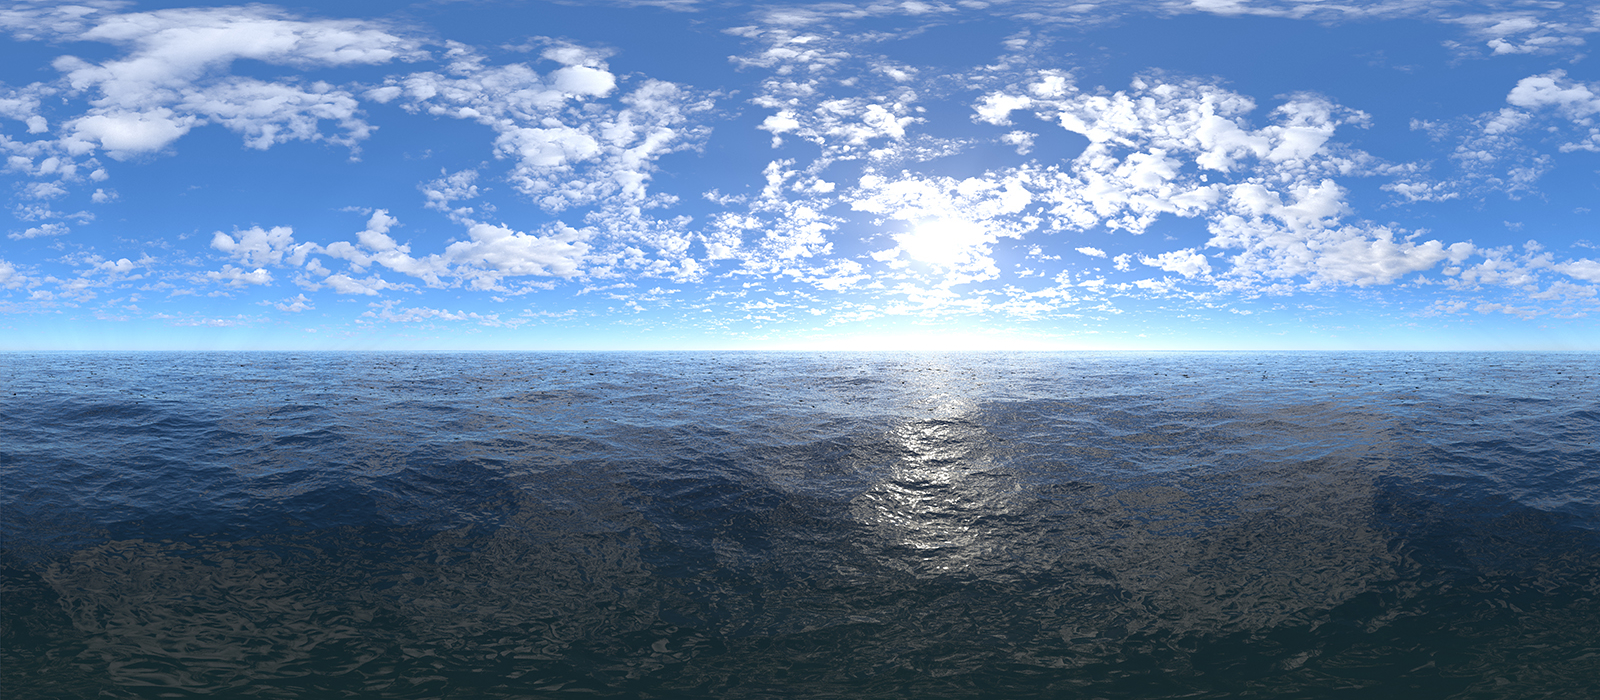
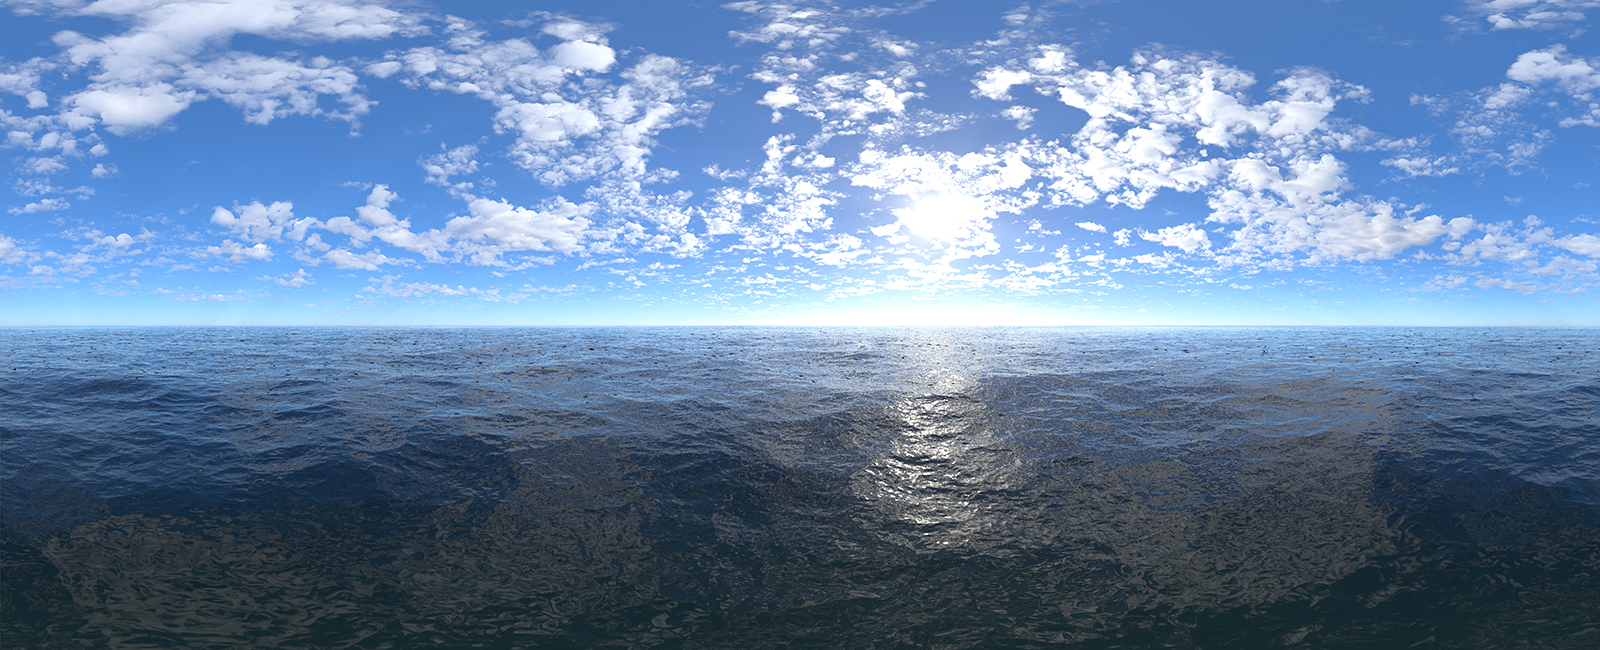
Fix and reenable floor casting.

diff --git a/js/main.js b/js/main.js
@@ -47,6 +47,7 @@ function Ray(x, y, dirX, dirY) {
     this.stepX = 0; // ray step direction
     this.stepY = 0;
     this.hit = 0; // type of wall ray hit
+    this.backward = false;
     this.done = false;
     this.side = 0; // side of the wall ray hit
     this.sector = 0; // sector of wall ray hit
@@ -94,8 +95,6 @@ let imageData = context.createImageData(canvas.width, canvas.height);
 
 // Drawing funcs
 function drawScene() {
-    prepareFrame();
-
     drawSkybox();
     drawFastFloor();
 
@@ -118,9 +117,9 @@ function prepareFrame() {
     pipeline = [];
 
     // Prepare all floor rays
-    // for (let onScreenY = horizon; onScreenY <= canvas.height; onScreenY++) {
-    //     calculateFloorScanLine(onScreenY);
-    // }
+    for (let onScreenY = horizon; onScreenY <= canvas.height; onScreenY++) {
+        calculateFloorScanLine(onScreenY);
+    }
 
     // Prepare all wall rays
     for (let onScreenX = 0; onScreenX <= canvas.width; onScreenX++) {
@@ -166,12 +165,12 @@ function calculateFloorScanLine(onScreenY) {
     calculateRayDirection(ray0);
     calculateRayDirection(ray1);
 
-    let p = onScreenY - horizon;
-    let posZ = 0.35 * canvas.height;
+    let p = onScreenY - horizon + 1;
+    let posZ = Math.floor(0.325 * canvas.height / screenRatio);
     let rowDistance = posZ / p;
 
-    let floorStepX = rowDistance * (ray1.dirX - ray0.dirX) / canvas.width;
-    let floorStepY = rowDistance * (ray1.dirY - ray0.dirY) / canvas.width;
+    let floorStepX = rowDistance * (ray1.dirX - ray0.dirX) / (canvas.width);
+    let floorStepY = rowDistance * (ray1.dirY - ray0.dirY) / (canvas.width);
 
     let floorX = thisPlayer.x + rowDistance * ray0.dirX;
     let floorY = thisPlayer.y + rowDistance * ray0.dirY;
@@ -181,16 +180,19 @@ function calculateFloorScanLine(onScreenY) {
         let cellY = Math.floor(floorY);
 
         if (cellY >= 0 && cellX >= 0 && cellY < world.length && cellX < world[cellY].length && transparentBlocks.includes(world[cellY][cellX])) {
-            let texture = getWallTexture(0);
+            let texture = getWallTexture(4);
 
-            let tx = Math.floor(texture.width * (floorX - cellX)) & (texture.width - 1);
-            let ty = Math.floor(texture.height * (floorY - cellY)) & (texture.height - 1);
+            if (texture !== undefined && texture.width !== undefined) {
+                let textureX = Math.floor(texture.width * (floorX - cellX)) & (texture.width - 1);
+                let textureY = Math.floor(texture.height * (floorY - cellY)) & (texture.height - 1);
 
-            let i = Math.floor(canvas.width * onScreenY + onScreenX) * 4;
-            floorData.data[i] = ((Math.floor(onScreenY) % 2) && (Math.floor(onScreenX) % 2)) ? 105 : 200;
-            // floorData.data[i + 1] = 255;
-            // floorData.data[i + 2] = 255;
-            // floorData.data[i + 3] = 255;
+                let canvasIndex = Math.floor((canvas.width + 1) * onScreenY + onScreenX) * 4;
+                let textureIndex = Math.floor(texture.width * textureY + textureX) * 4;
+
+                imageData.data[canvasIndex] = texture.data[textureIndex];
+                imageData.data[canvasIndex + 1] = texture.data[textureIndex + 1];
+                imageData.data[canvasIndex + 2] = texture.data[textureIndex + 2];
+            }
         }
         
         floorX += floorStepX;
@@ -323,10 +325,10 @@ function performBackwardsRaycast(refRay, x, onScreenX) {
     ray.dirY *= -1;
 
     if (ray.offX < ray.offY) {
-        ray.x -= ray.stepX * 0.0001;
+        ray.x -= ray.stepX * 0.00001;
         ray.side = 0;
     } else {
-        ray.y -= ray.stepY * 0.0001;
+        ray.y -= ray.stepY * 0.00001;
         ray.side = 1;
     }
 
@@ -335,12 +337,10 @@ function performBackwardsRaycast(refRay, x, onScreenX) {
     // Check if ray is in world bounds
     if (ray.y < 0 || ray.y > world.length - 1) return;
     if (ray.x < 0 || ray.x > world[Math.round(ray.y)].length - 1) return;
-    
-    ray.dirX *= -1;
-    ray.dirY *= -1;
 
     // Check if ray has hit a wall
     if (world[Math.round(ray.y)][Math.round(ray.x)] == ray.hit) {
+        ray.backward = true;
         rayHit(ray, x, onScreenX);
     }
 }
@@ -354,6 +354,12 @@ function rayHit(ray, x, onScreenX) {
     let modifierX = 0, modifierY = 0;
     if (ray.dirX < 0) modifierX = 1;
     if (ray.dirY < 0) modifierY = 1;
+
+    // Reverse ray direction if backwards cast (fixes portal transitions)
+    if (ray.backward) {
+        ray.dirX *= -1;
+        ray.dirY *= -1;
+    }
 
     if (jumps === 0) {
         if (ray.side === 0) perpWallDist = (ray.x - thisPlayer.x + (1 - ray.stepX) / 2) / ray.dirX;
@@ -373,7 +379,7 @@ function rayHit(ray, x, onScreenX) {
     }
 
     // Calculate height of line to draw on screen
-    let lineHeight = canvas.height / perpWallDist / screenRatio / 2.5 / correction;
+    let lineHeight = canvas.height / perpWallDist / screenRatio / 2.25 / correction;
 
     // Calculate value of wallX
     if (ray.side === 0) ray.sector = thisPlayer.y + perpWallDist * ray.dirY;
@@ -399,11 +405,13 @@ function rayHit(ray, x, onScreenX) {
 }
 
 function drawFrame() {
+    imageData = context.getImageData(0, 0, canvas.width + 1, canvas.height);
+
+    prepareFrame();
+
     pipeline.sort(function (a, b) {
         return b.distance - a.distance;
     });
-
-    imageData = context.getImageData(0, 0, canvas.width + 1, canvas.height);
 
     for (let i = 0; i < pipeline.length; i++) {
         let temp = pipeline[i];
@@ -437,10 +445,10 @@ function drawScanLine(ray) {
         let canvasIndex = Math.floor((canvas.width + 1) * onScreenY + ray.onScreenX) * 4;
         let textureIndex = Math.floor(texture.width * Math.floor(textureY * texture.height) + textureX) * 4;
 
-        let finalR = texture.imageData.data[textureIndex];
-        let finalB = texture.imageData.data[textureIndex + 1];
-        let finalG = texture.imageData.data[textureIndex + 2];
-        let finalA = texture.imageData.data[textureIndex + 3];
+        let finalR = texture.data[textureIndex];
+        let finalB = texture.data[textureIndex + 1];
+        let finalG = texture.data[textureIndex + 2];
+        let finalA = texture.data[textureIndex + 3];
 
         // Draw decal if present
         if (ray.decalIndex >= 0) {
@@ -452,12 +460,12 @@ function drawScanLine(ray) {
 
                 let decalIndex = Math.floor(decal.width * Math.floor(textureY * decal.height) + textureX) * 4;
 
-                let alpha = decal.imageData.data[decalIndex + 3] / 255;
+                let alpha = decal.data[decalIndex + 3] / 255;
 
-                finalR = decal.imageData.data[decalIndex] * alpha + finalR * (1 - alpha);
-                finalG = decal.imageData.data[decalIndex + 1] * alpha + finalG * (1 - alpha);
-                finalB = decal.imageData.data[decalIndex + 2] * alpha + finalB * (1 - alpha);
-                finalA += decal.imageData.data[decalIndex + 3] * alpha;
+                finalR = decal.data[decalIndex] * alpha + finalR * (1 - alpha);
+                finalG = decal.data[decalIndex + 1] * alpha + finalG * (1 - alpha);
+                finalB = decal.data[decalIndex + 2] * alpha + finalB * (1 - alpha);
+                finalA += decal.data[decalIndex + 3] * alpha;
                 if (finalA > 255) finalA = 255;
             }
         }

diff --git a/js/textures.js b/js/textures.js
@@ -3,7 +3,8 @@ const textureNames = [
     'resources/textures/walls/error.png',
     'resources/textures/walls/brick_wall.png',
     'resources/textures/walls/metal_arch.png',
-    'resources/textures/walls/metal_window.png'
+    'resources/textures/walls/metal_window.png',
+    'resources/textures/walls/concrete.png'
 ];
 
 const decalNames = [
@@ -91,8 +92,8 @@ const tempContext = tempCanvas.getContext("2d", { alpha: true });
 let skybox = new Image();
 skybox.src = "resources/skybox.jpg";
 
-function Texture(imageData, width, height) {
-    this.imageData = imageData;
+function Texture(data, width, height) {
+    this.data = data;
     this.width = width;
     this.height = height;
 }
@@ -113,7 +114,7 @@ for (let i = 0; i < textureNames.length; i++) {
 
         let imageData = tempContext.getImageData(0, 0, tempCanvas.width, tempCanvas.height);
 
-        let texture = new Texture(imageData, tempImage.width, tempImage.height);
+        let texture = new Texture(imageData.data, imageData.width, imageData.height);
 
         textures[index] = texture;
     }
@@ -140,7 +141,7 @@ for (let i = 0; i < decalNames.length; i++) {
 
         let imageData = tempContext.getImageData(0, 0, tempCanvas.width, tempCanvas.height);
 
-        let texture = new Texture(imageData, tempImage.width, tempImage.height);
+        let texture = new Texture(imageData.data, imageData.width, imageData.height);
 
         decals[index] = texture;
     }

diff --git a/js/blockProperties.js b/js/blockProperties.js
@@ -1,3 +1,3 @@
-const transparentBlocks = [0, 2, 3];
+const transparentBlocks = [0, 2, 3, 5];
 const nonSolidBlocks = [0, 2, 5];
 const mergeableBlocks = [3];
